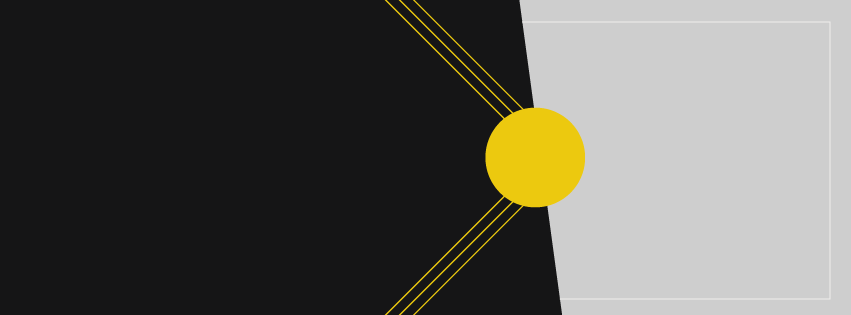
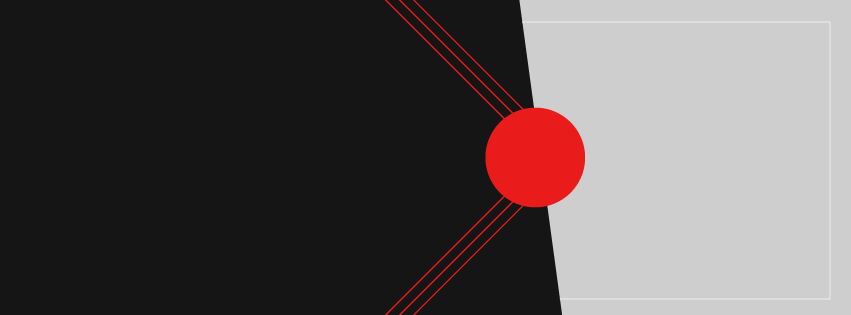
Showing the Spinner

Changed region(s): [[0.4583, 0.0, 0.7027, 1.0]]

diff --git a/src/components/PrivateRoute/PrivateRoute.jsx b/src/components/PrivateRoute/PrivateRoute.jsx
@@ -1,0 +1,27 @@
+import React from 'react';
+import { useContext } from 'react';
+import { AuthContext } from '../providers/AuthProvider';
+import { Navigate, useLocation } from 'react-router';
+import './privateRoute.css'
+
+
+
+
+const PrivateRoute = ({ children }) => {
+    const { user, loading } = useContext(AuthContext);
+    const location = useLocation();
+    console.log('user in private route', user);
+    if (loading) {
+        return <div style={{ display: 'flex', justifyContent: 'center', marginTop: '50px', alignItems: 'center' }}>
+            <div className="spinner" ></div>
+        </div>
+
+    }
+
+    if (user) {
+        return children;
+    }
+    return <Navigate state={{ from: location }} to="/login" replace></Navigate>;
+};
+
+export default PrivateRoute;

diff --git a/src/main.jsx b/src/main.jsx
@@ -13,6 +13,7 @@ import ChefRecipes from './components/chefRecipes/chefRecipes.jsx';
 import Login from './components/Login/Login.jsx';
 import Register from './components/Register/Register.jsx';
 import AuthProvider from './components/providers/AuthProvider.jsx';
+import PrivateRoute from './components/PrivateRoute/PrivateRoute.jsx';
 
 
 const router = createBrowserRouter([
@@ -39,7 +40,7 @@ const router = createBrowserRouter([
       },
       {
         path: 'chef/:chefId',
-        element: <ChefRecipes></ChefRecipes>,
+        element: <PrivateRoute><ChefRecipes></ChefRecipes></PrivateRoute>,
         loader: ({params}) => fetch(`http://localhost:5000/chef/${params.id}`)
       }
       

diff --git a/src/components/ChefRecipes/ChefRecipes.jsx b/src/components/ChefRecipes/ChefRecipes.jsx
@@ -22,9 +22,8 @@ function ChefRecipes() {
         <div>
             <div className='text-white flex justify-around items-center gap-3' style={{
                 backgroundImage: `url(${banner})`,
-                backgroundSize: "100% 100%", // set the width and height to 100%
-                 // set the width of the element
-                height: "500px" // set the height of the element
+                backgroundSize: "100% 100%", 
+                height: "500px" 
             }}>
                 <div className='w-1/2'>
                 <h2 className="card-title  mt-8 mb-2">{chef.chef_name}</h2>

diff --git a/src/components/Login/Login.jsx b/src/components/Login/Login.jsx
@@ -40,7 +40,7 @@ const Login = () => {
     const handleGoogleSignIn = () => {
         signInWithGoogle().then(() => {
             console.log('User signed in with Google');
-            navigate('/', { replace: true }); 
+            navigate(from, { replace: true })
         }).catch(error => {
             console.log('Error signing in with Google:', error);
         });

diff --git a/src/components/PrivateRoute/privateRoute.css b/src/components/PrivateRoute/privateRoute.css
@@ -1,0 +1,17 @@
+.spinner {
+    border-top-color: red;
+    border-left-color: red;
+    animation: spin 1s linear infinite;
+    border-radius: 50%;
+    width: 8rem;
+    height: 8rem;
+    border-width: 0.7rem;
+    position: relative;
+  }
+  
+  @keyframes spin {
+    100% {
+      transform: rotate(360deg);
+    }
+  }
+  
